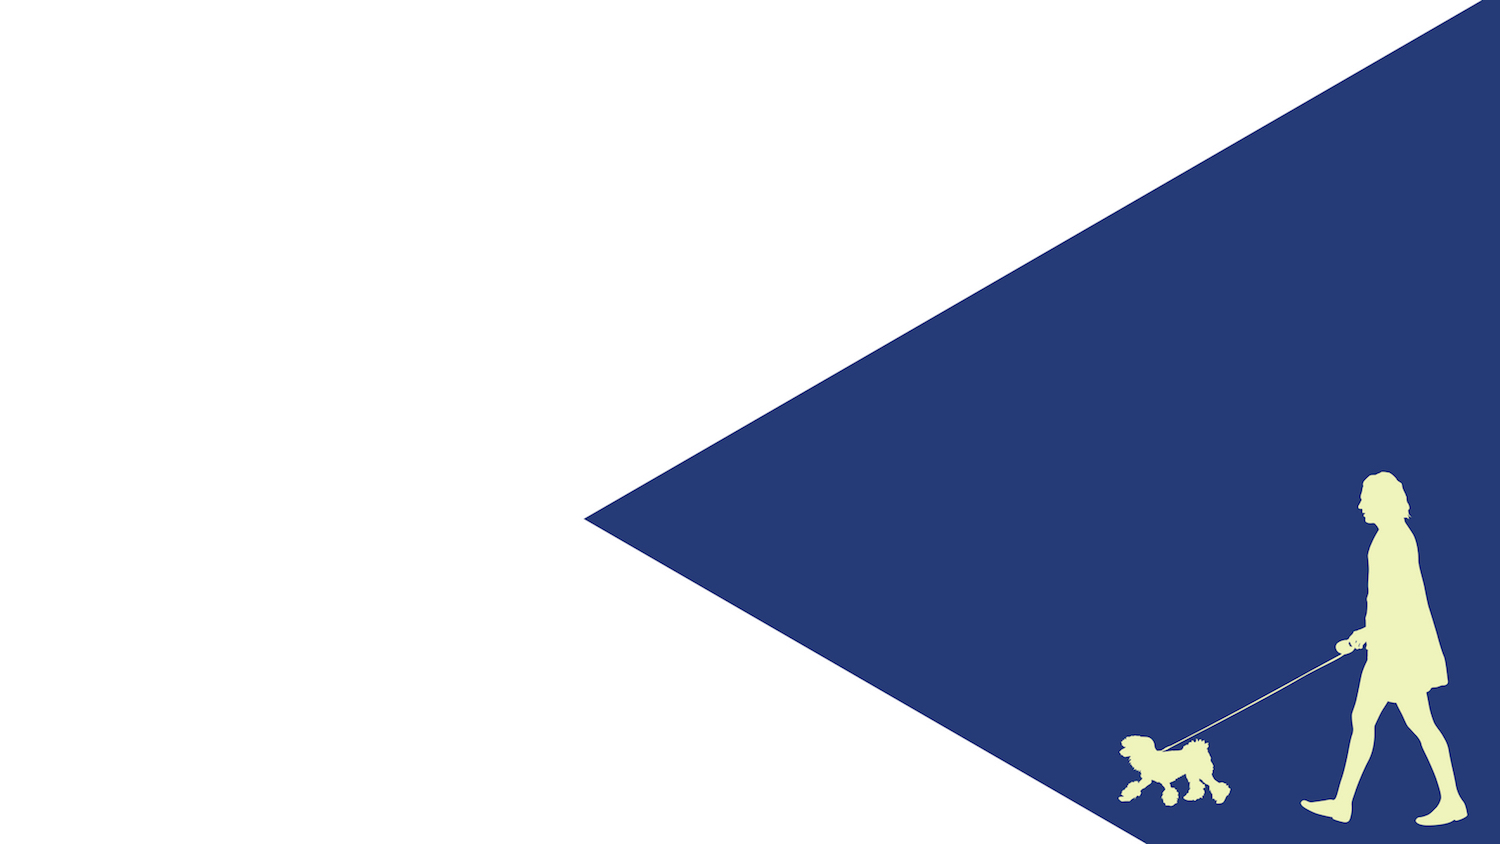
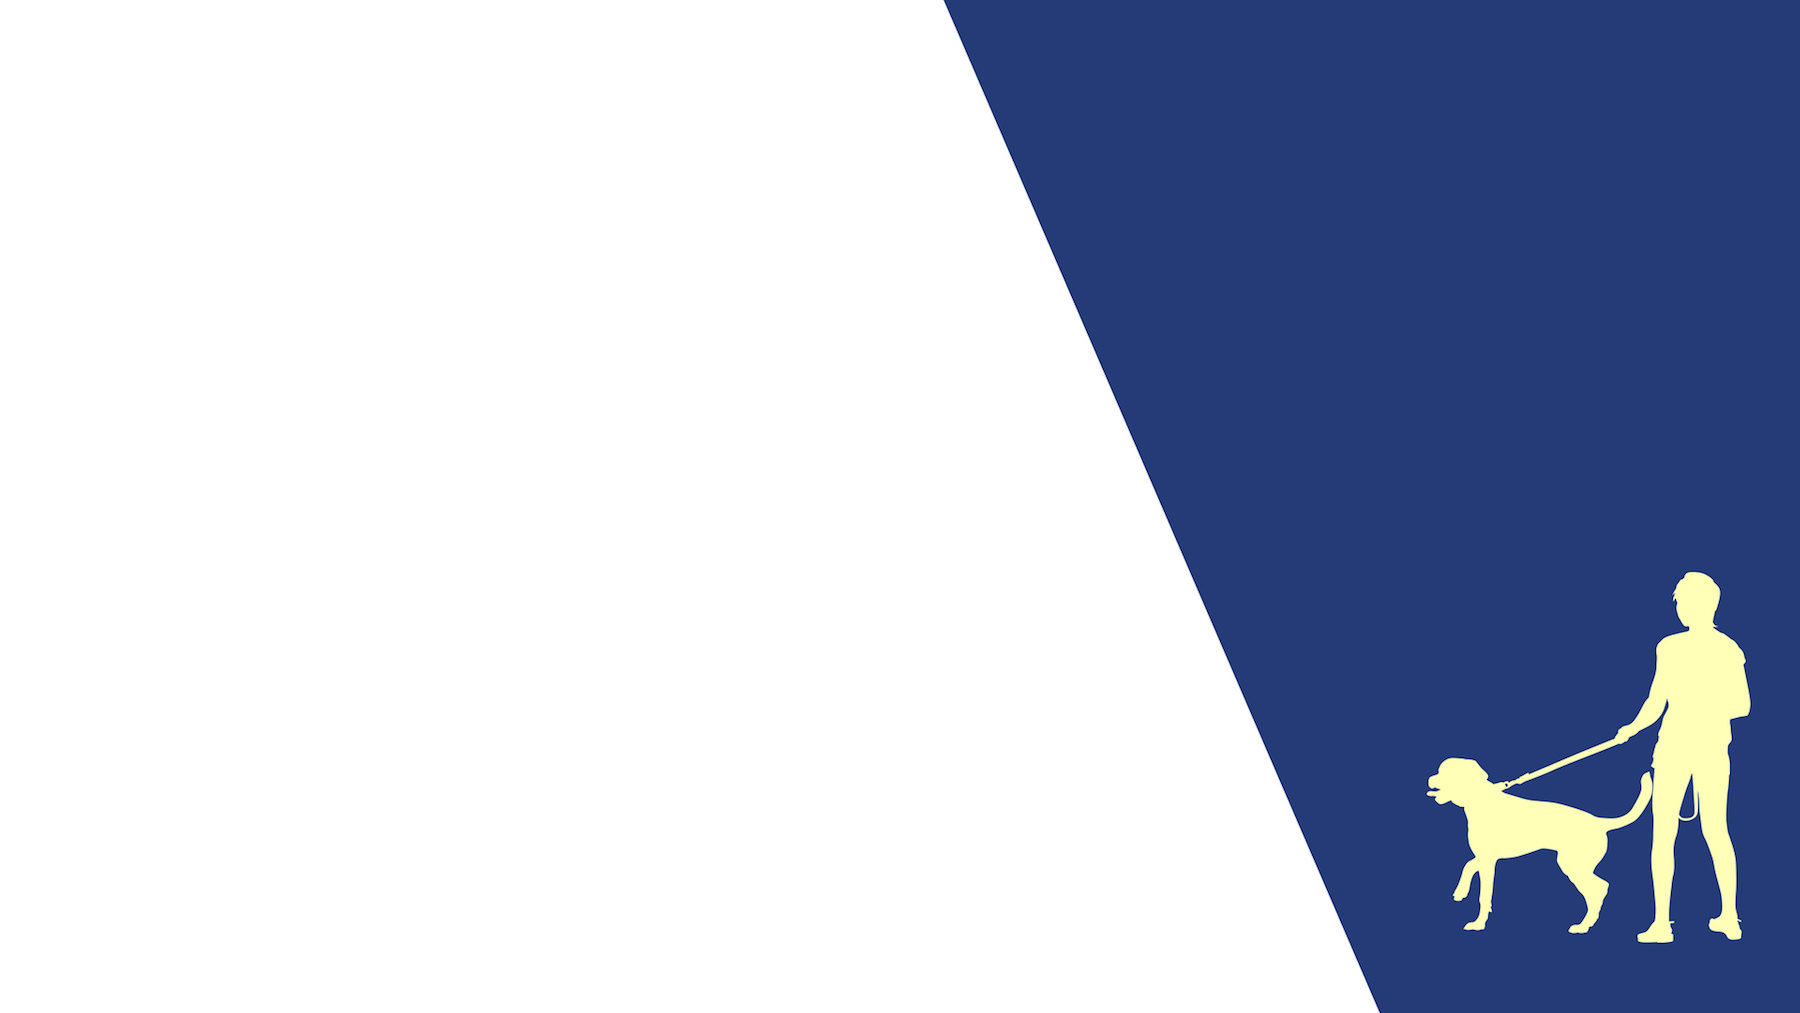
updated all background images; created dashboard menu bar

Changed region(s): [[0.3987, 0.0, 0.9813, 1.0]]

diff --git a/app/assets/stylesheets/dashboard.scss b/app/assets/stylesheets/dashboard.scss
@@ -1,3 +1,45 @@
 // Place all the styles related to the dashboard controller here.
 // They will automatically be included in application.css.
 // You can use Sass (SCSS) here: http://sass-lang.com/
+
+body {
+   background: url('background-7.jpg') no-repeat center center fixed;
+   background-size: cover;
+}
+
+
+.box {
+  border: black solid .5px;
+  box-shadow: 1px 1px 1px grey;
+  margin-top: 20px;
+  background-color: white;
+  color: black;
+}
+
+.user-image {
+  border-right: solid black;
+}
+
+.walk-request-button {
+}
+
+/* Shrink effect on walk request button */
+.hvr-shrink {
+  display: inline-block;
+  vertical-align: middle;
+  -webkit-transform: perspective(1px) translateZ(0);
+  transform: perspective(1px) translateZ(0);
+  box-shadow: 0 0 1px rgba(0, 0, 0, 0);
+  -webkit-transition-duration: 0.3s;
+  transition-duration: 0.3s;
+  -webkit-transition-property: transform;
+  transition-property: transform;
+}
+.hvr-shrink:hover, .hvr-shrink:focus, .hvr-shrink:active {
+  -webkit-transform: scale(0.9);
+  transform: scale(0.9);
+}
+
+.data-tables {
+  padding-top: 300px;
+}

diff --git a/config/routes.rb b/config/routes.rb
@@ -1,4 +1,4 @@
-
+Rails.application.routes.draw do
   # For details on the DSL available within this file, see http://guides.rubyonrails.org/routing.html
 resources :dog
 resources :walk_request
